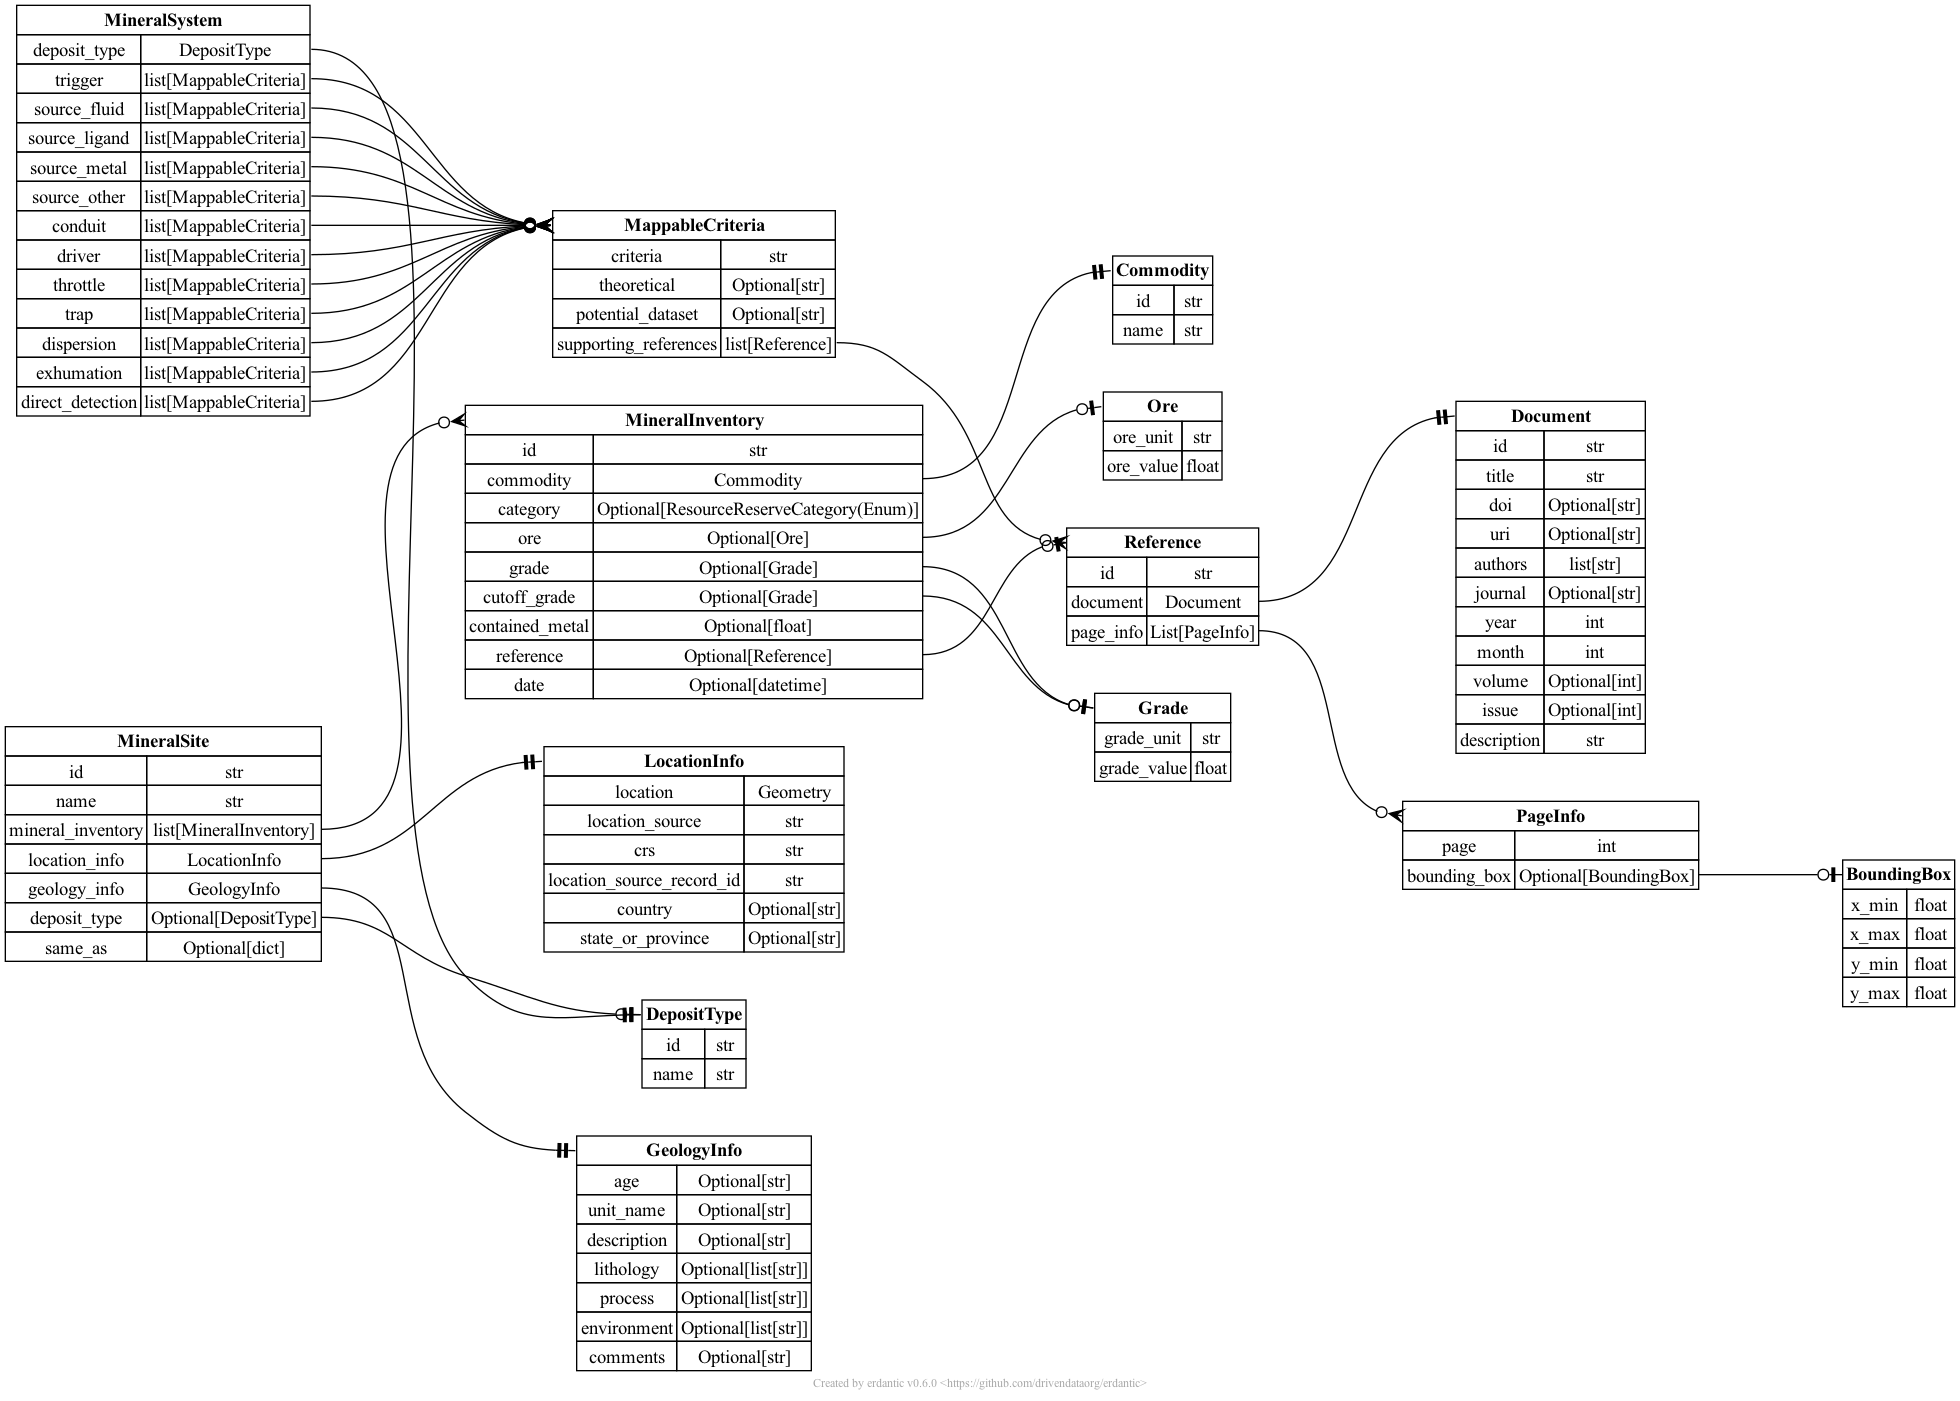
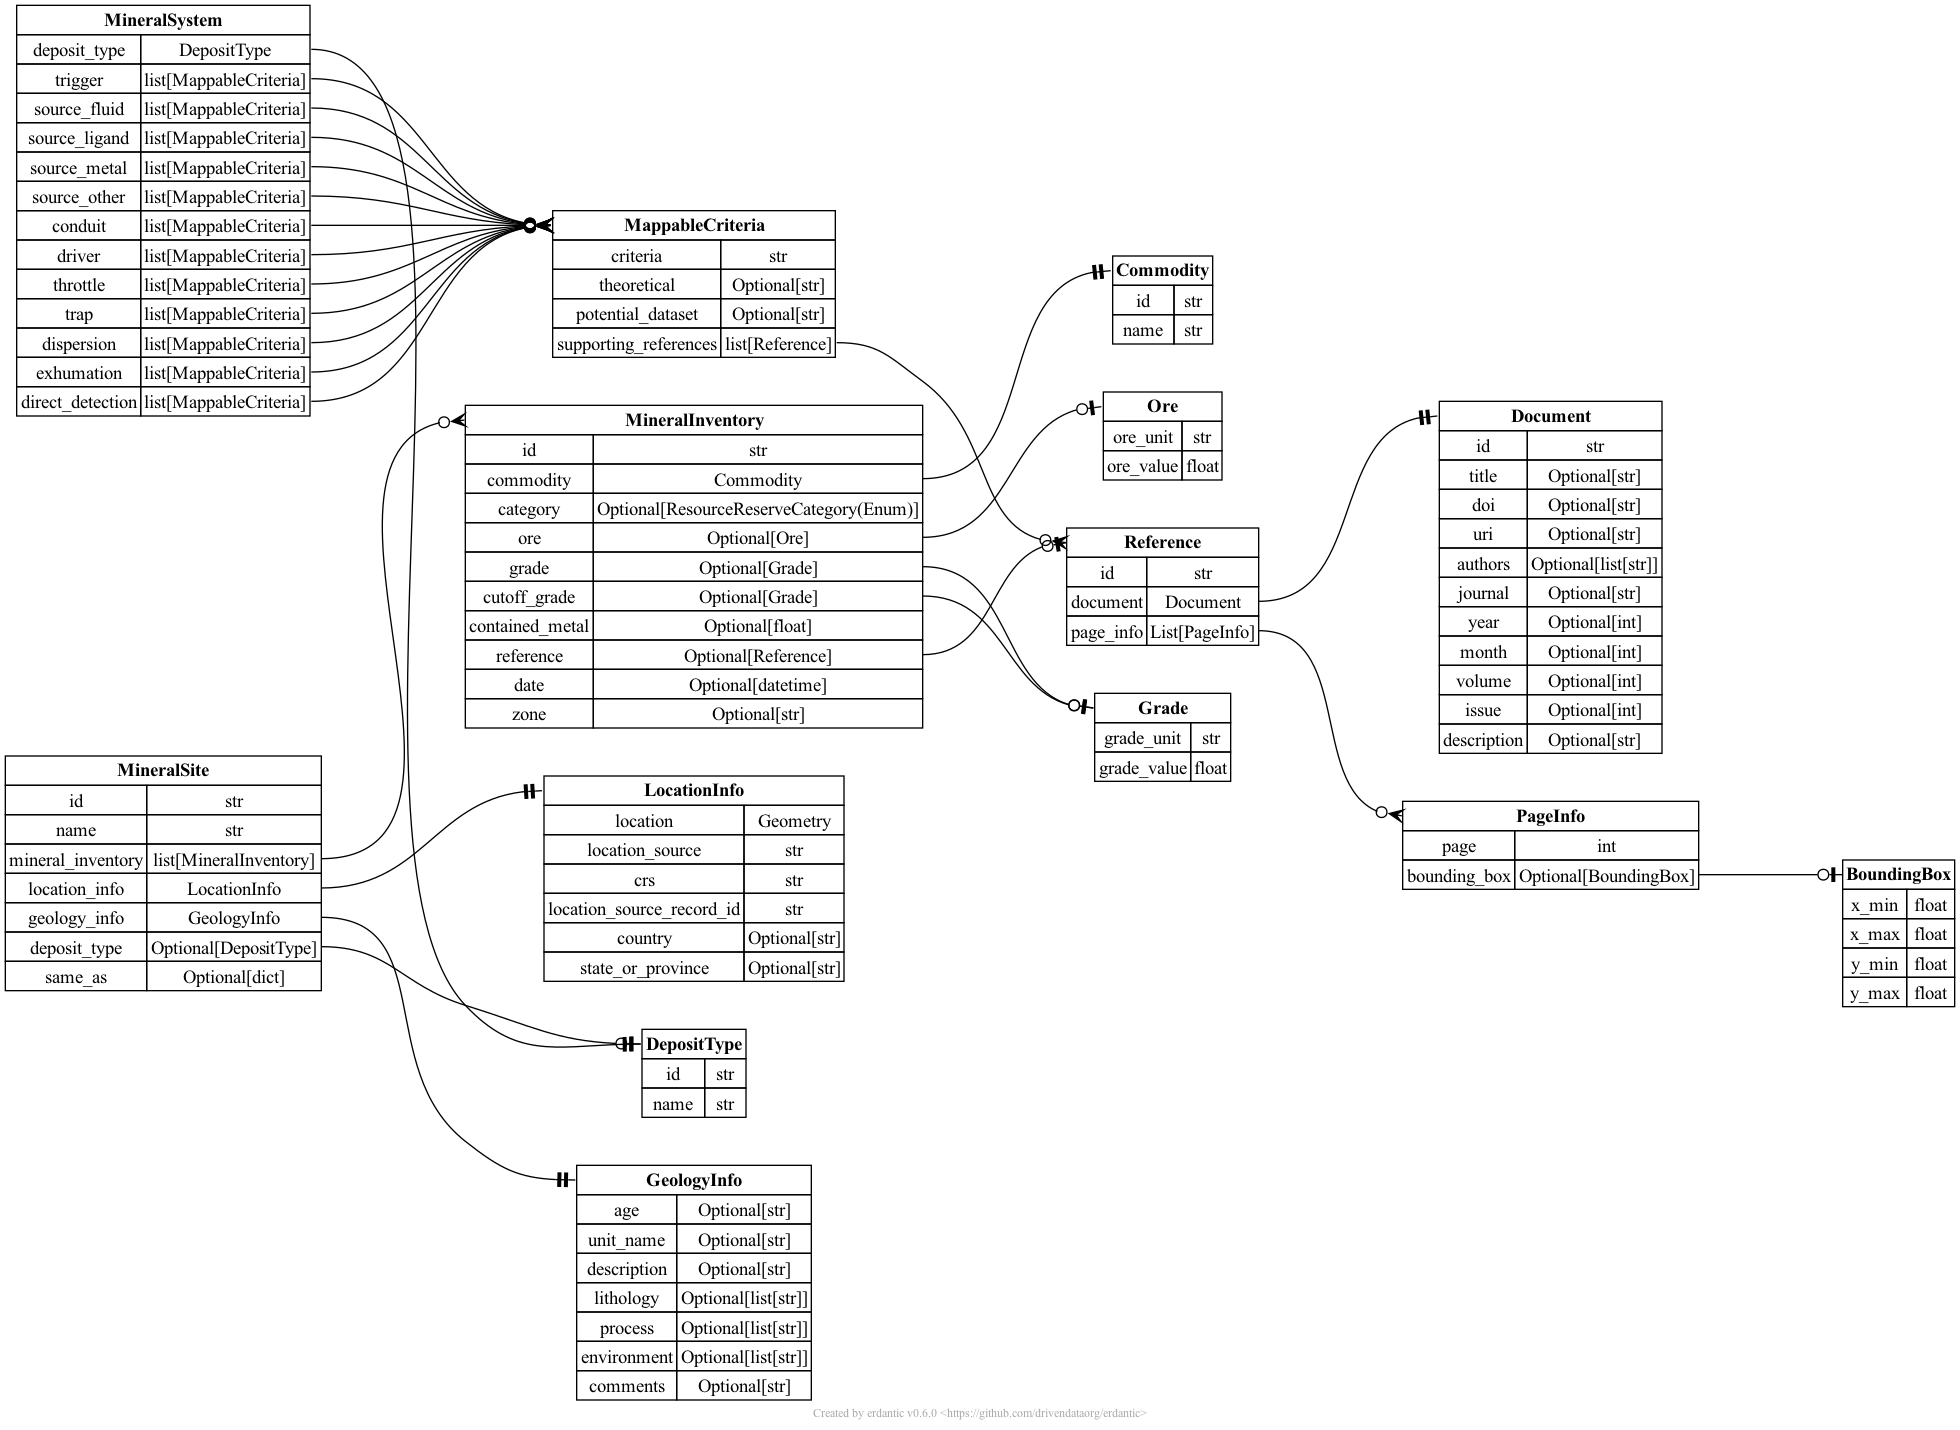
Add zone in MI

diff --git a/ta2/output.py b/ta2/output.py
@@ -52,16 +52,16 @@ class PageInfo(BaseModel):
 
 class Document(BaseModel):
     id: str
-    title: str = Field( description="Title of the document")
+    title: Optional[str] = Field( description="Title of the document")
     doi: Optional[str] = Field(description="doi of the document")
     uri: Optional[str] = Field(description="URI of the document, if it does not have a doi")
-    authors: list[str] = Field(description="list of the authors of the document")
+    authors: Optional[list[str]] = Field(description="list of the authors of the document")
     journal: Optional[str] = Field(description="journal document belongs to")
-    year: int = Field(description="Published year of the document")
-    month: int = Field(description="Published month of the document")
+    year: Optional[int] = Field(description="Published year of the document")
+    month: Optional[int] = Field(description="Published month of the document")
     volume: Optional[int] = Field(description="Volume of the document")
     issue: Optional[int] = Field(description="Issue number of the document")
-    description: str = Field(description="Description of the document")
+    description: Optional[str] = Field(description="Description of the document")
 
 class Reference(BaseModel):
     id: str
@@ -107,6 +107,7 @@ class MineralInventory(BaseModel):
     contained_metal: Optional[float] = Field( description="The quantity of a contained metal in an inventory item")
     reference: Optional[Reference] = Field( description="The reference of an inventory item")
     date: Optional[datetime] = Field(description="When in the point of time mineral inventory valid")
+    zone: Optional[str] = Field(description="zone of mineral site where inventory item was discovered")
 
 class LocationInfo(BaseModel):
     location: Geometry = Field(

diff --git a/ta2/output.md b/ta2/output.md
@@ -45,7 +45,10 @@
 ### Properties
 
 - **`id`** *(string)*
-- **`title`** *(string)*: Title of the document.
+- **`title`**: Title of the document.
+  - **Any of**
+    - *string*
+    - *null*
 - **`doi`**: doi of the document.
   - **Any of**
     - *string*
@@ -54,14 +57,23 @@
   - **Any of**
     - *string*
     - *null*
-- **`authors`** *(array)*: list of the authors of the document.
-  - **Items** *(string)*
+- **`authors`**: list of the authors of the document.
+  - **Any of**
+    - *array*
+      - **Items** *(string)*
+    - *null*
 - **`journal`**: journal document belongs to.
   - **Any of**
     - *string*
     - *null*
-- **`year`** *(integer)*: Published year of the document.
-- **`month`** *(integer)*: Published month of the document.
+- **`year`**: Published year of the document.
+  - **Any of**
+    - *integer*
+    - *null*
+- **`month`**: Published month of the document.
+  - **Any of**
+    - *integer*
+    - *null*
 - **`volume`**: Volume of the document.
   - **Any of**
     - *integer*
@@ -70,7 +82,10 @@
   - **Any of**
     - *integer*
     - *null*
-- **`description`** *(string)*: Description of the document.
+- **`description`**: Description of the document.
+  - **Any of**
+    - *string*
+    - *null*
 
 ## GeologyInfo
 
@@ -183,6 +198,10 @@
 - **`date`**: When in the point of time mineral inventory valid.
   - **Any of**
     - *string, format: date-time*
+    - *null*
+- **`zone`**: zone of mineral site where inventory item was discovered.
+  - **Any of**
+    - *string*
     - *null*
 
 ## MineralSystem
